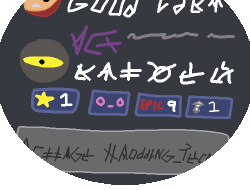
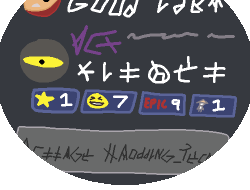
1.63 changes

Changed region(s): [[0.28, 0.2895, 0.952, 0.6316]]

diff --git a/src/main/java/theFishing/cards/QuestTimeTheFishOPedia.java b/src/main/java/theFishing/cards/QuestTimeTheFishOPedia.java
@@ -1,24 +1,15 @@
 package theFishing.cards;
 
-import com.evacipated.cardcrawl.mod.stslib.actions.common.SelectCardsCenteredAction;
-import com.megacrit.cardcrawl.actions.common.MakeTempCardInHandAction;
-import com.megacrit.cardcrawl.cards.AbstractCard;
 import com.megacrit.cardcrawl.characters.AbstractPlayer;
-import com.megacrit.cardcrawl.dungeons.AbstractDungeon;
-import com.megacrit.cardcrawl.helpers.CardLibrary;
 import com.megacrit.cardcrawl.monsters.AbstractMonster;
 import theFishing.actions.AcceptQuestAction;
 import theFishing.cards.fish.AbstractFishCard;
+import theFishing.quest.QuestHelper;
 import theFishing.quest.quests.TheFishOPedia;
-import theFishing.relics.MaelstromAnkh;
-
-import java.util.ArrayList;
-import java.util.HashMap;
-import java.util.Map;
 
 import static theFishing.FishingMod.makeID;
 import static theFishing.util.Wiz.atb;
-import static theFishing.util.Wiz.att;
+import static theFishing.util.Wiz.topDeck;
 
 public class QuestTimeTheFishOPedia extends AbstractFishingCard {
     public final static String ID = makeID("QuestTimeTheFishOPedia");
@@ -26,42 +17,19 @@ public class QuestTimeTheFishOPedia extends AbstractFishingCard {
 
     public QuestTimeTheFishOPedia() {
         super(ID, 1, CardType.SKILL, CardRarity.UNCOMMON, CardTarget.SELF);
-        baseMagicNumber = magicNumber = 2;
+        baseMagicNumber = magicNumber = 1;
     }
 
     public void use(AbstractPlayer p, AbstractMonster m) {
-        AbstractFishCard.setupLists();
-        HashMap<String, Integer> dupeList = new HashMap<>();
-        if (AbstractDungeon.player.hasRelic(MaelstromAnkh.ID)) {
-            for (Map.Entry<String, Integer> e : AbstractFishCard.maelstromFishList.entrySet()) {
-                dupeList.put(e.getKey(), e.getValue());
-            }
-        } else {
-            for (Map.Entry<String, Integer> e : AbstractFishCard.weightedFishList.entrySet()) {
-                dupeList.put(e.getKey(), e.getValue());
-            }
-        }
-        ArrayList<AbstractCard> possCards = new ArrayList<>();
         for (int i = 0; i < magicNumber; i++) {
-            int fishRoll = AbstractDungeon.cardRandomRng.random(1,
-                    dupeList.keySet().stream()
-                            .mapToInt(f -> dupeList.get(f))
-                            .sum()
-            );
-
-            for (String fishy : dupeList.keySet()) {
-                fishRoll -= dupeList.get(fishy);
-                if (fishRoll <= 0) {
-                    possCards.add(CardLibrary.getCard(fishy).makeCopy());
-                    dupeList.remove(fishy);
-                    break;
-                }
-            }
+            topDeck(AbstractFishCard.returnRandomFish());
         }
-        atb(new SelectCardsCenteredAction(possCards, 1, cardStrings.EXTENDED_DESCRIPTION[0], (cards) -> {
-            att(new MakeTempCardInHandAction(cards.get(0)));
-        }));
         atb(new AcceptQuestAction(new TheFishOPedia()));
+    }
+
+    @Override
+    public void triggerOnGlowCheck() {
+        glowColor = QuestHelper.hasQuest(TheFishOPedia.ID) ? QuestHelper.QUEST_DUPE_BORDER_GLOW_COLOR : BLUE_BORDER_GLOW_COLOR;
     }
 
     public void upp() {

diff --git a/src/main/java/theFishing/actions/DeckToTopOfDeckAction.java b/src/main/java/theFishing/actions/DeckToTopOfDeckAction.java
@@ -1,0 +1,59 @@
+package theFishing.actions;
+
+import com.megacrit.cardcrawl.actions.AbstractGameAction;
+import com.megacrit.cardcrawl.cards.AbstractCard;
+import com.megacrit.cardcrawl.cards.CardGroup;
+import com.megacrit.cardcrawl.core.AbstractCreature;
+import com.megacrit.cardcrawl.core.CardCrawlGame;
+import com.megacrit.cardcrawl.core.Settings;
+import com.megacrit.cardcrawl.dungeons.AbstractDungeon;
+import com.megacrit.cardcrawl.localization.UIStrings;
+
+public class DeckToTopOfDeckAction extends AbstractGameAction {
+    private static final UIStrings uiStrings = CardCrawlGame.languagePack.getUIString("DiscardPileToTopOfDeckAction");
+    public static final String[] TEXT = uiStrings.TEXT;
+
+    public DeckToTopOfDeckAction(AbstractCreature source) {
+        this.setValues(null, source, this.amount);
+        this.actionType = ActionType.CARD_MANIPULATION;
+        this.duration = Settings.ACTION_DUR_FASTER;
+    }
+
+    public void update() {
+        CardGroup tmp = new CardGroup(CardGroup.CardGroupType.UNSPECIFIED);
+        for (AbstractCard c : AbstractDungeon.player.drawPile.group) {
+            tmp.addToRandomSpot(c);
+        }
+        if (this.duration == Settings.ACTION_DUR_FASTER) {
+            if (tmp.isEmpty()) {
+                this.isDone = true;
+                return;
+            }
+
+            if (tmp.size() == 1) {
+                AbstractCard tar = tmp.getTopCard();
+                tmp.removeCard(tar);
+                tmp.moveToDeck(tar, false);
+            }
+
+            if (tmp.group.size() > this.amount) {
+
+                AbstractDungeon.gridSelectScreen.open(tmp, 1, TEXT[0], false, false, false, false);
+                this.tickDuration();
+                return;
+            }
+        }
+
+        if (!AbstractDungeon.gridSelectScreen.selectedCards.isEmpty()) {
+            for (AbstractCard c : AbstractDungeon.gridSelectScreen.selectedCards) {
+                tmp.removeCard(c);
+                AbstractDungeon.player.hand.moveToDeck(c, false);
+            }
+
+            AbstractDungeon.gridSelectScreen.selectedCards.clear();
+            AbstractDungeon.player.hand.refreshHandLayout();
+        }
+
+        this.tickDuration();
+    }
+}

diff --git a/src/main/java/theFishing/cards/SetSail.java b/src/main/java/theFishing/cards/SetSail.java
@@ -1,16 +1,10 @@
 package theFishing.cards;
 
-import basemod.BaseMod;
-import basemod.helpers.TooltipInfo;
 import com.megacrit.cardcrawl.characters.AbstractPlayer;
 import com.megacrit.cardcrawl.monsters.AbstractMonster;
 import com.megacrit.cardcrawl.powers.LoseStrengthPower;
 import com.megacrit.cardcrawl.powers.StrengthPower;
-import theFishing.actions.SetSailAction;
-import theFishing.patch.foil.FoilTooltips1;
-
-import java.util.Collections;
-import java.util.List;
+import theFishing.actions.DeckToTopOfDeckAction;
 
 import static theFishing.FishingMod.makeID;
 import static theFishing.util.Wiz.applyToSelf;
@@ -26,14 +20,9 @@ public class SetSail extends AbstractFishingCard {
     }
 
     public void use(AbstractPlayer p, AbstractMonster m) {
-        atb(new SetSailAction(CardType.ATTACK));
+        atb(new DeckToTopOfDeckAction(p));
         applyToSelf(new StrengthPower(p, magicNumber));
         applyToSelf(new LoseStrengthPower(p, magicNumber));
-    }
-
-    @Override
-    public List<TooltipInfo> getCustomTooltips() {
-        return Collections.singletonList(new TooltipInfo(BaseMod.getKeywordTitle(FoilTooltips1.UI_STRINGS.TEXT[2]), BaseMod.getKeywordDescription(FoilTooltips1.UI_STRINGS.TEXT[2])));
     }
 
     public void upp() {

diff --git a/src/main/java/theFishing/cards/Cheat.java b/src/main/java/theFishing/cards/Cheat.java
@@ -2,7 +2,6 @@ package theFishing.cards;
 
 import com.megacrit.cardcrawl.actions.AbstractGameAction;
 import com.megacrit.cardcrawl.actions.common.RemoveAllBlockAction;
-import com.megacrit.cardcrawl.cards.AbstractCard;
 import com.megacrit.cardcrawl.characters.AbstractPlayer;
 import com.megacrit.cardcrawl.monsters.AbstractMonster;
 
@@ -16,7 +15,7 @@ public class Cheat extends AbstractFishingCard {
 
     public Cheat() {
         super(ID, 1, CardType.ATTACK, CardRarity.SPECIAL, CardTarget.ENEMY, CardColor.COLORLESS);
-        baseDamage = 9;
+        baseDamage = 8;
         cardsToPreview = new Steal();
         exhaust = true;
     }
@@ -26,16 +25,10 @@ public class Cheat extends AbstractFishingCard {
             atb(new RemoveAllBlockAction(m, p));
         }
         dmg(m, AbstractGameAction.AttackEffect.SLASH_HORIZONTAL);
-        AbstractCard q = new Steal();
-        if (upgraded) q.upgrade();
-        makeInHand(q);
+        makeInHand(new Steal());
     }
 
     public void upp() {
-        upgradeDamage(2);
-        AbstractCard q = new Steal();
-        q.upgrade();
-        cardsToPreview = q;
-        uDesc();
+        upgradeDamage(3);
     }
 }

diff --git a/src/main/java/theFishing/cards/Lie.java b/src/main/java/theFishing/cards/Lie.java
@@ -21,7 +21,7 @@ public class Lie extends AbstractFishingCard {
 
     public Lie() {
         super(ID, 1, CardType.SKILL, CardRarity.UNCOMMON, CardTarget.ALL_ENEMY);
-        baseMagicNumber = magicNumber = 3;
+        baseMagicNumber = magicNumber = 4;
         MultiCardPreview.add(this, new Cheat(), new Steal());
         exhaust = true;
     }
@@ -37,19 +37,10 @@ public class Lie extends AbstractFishingCard {
             }
         });
 
-        AbstractCard q = new Cheat();
-        if (upgraded) q.upgrade();
-        makeInHand(q);
+        makeInHand(new Cheat());
     }
 
     public void upp() {
         upgradeMagicNumber(2);
-        MultiCardPreview.clear(this);
-        AbstractCard q = new Cheat();
-        q.upgrade();
-        AbstractCard q2 = new Steal();
-        q2.upgrade();
-        MultiCardPreview.add(this, q, q2);
-        uDesc();
     }
 }

diff --git a/src/main/java/theFishing/cards/QuestTimeTheStorm.java b/src/main/java/theFishing/cards/QuestTimeTheStorm.java
@@ -4,6 +4,8 @@ import com.megacrit.cardcrawl.characters.AbstractPlayer;
 import com.megacrit.cardcrawl.monsters.AbstractMonster;
 import com.megacrit.cardcrawl.powers.EnergizedPower;
 import theFishing.actions.AcceptQuestAction;
+import theFishing.quest.QuestHelper;
+import theFishing.quest.quests.TheGemSearch;
 import theFishing.quest.quests.TheStorm;
 
 import static theFishing.FishingMod.makeID;
@@ -22,6 +24,11 @@ public class QuestTimeTheStorm extends AbstractFishingCard {
     public void use(AbstractPlayer p, AbstractMonster m) {
         applyToSelf(new EnergizedPower(p, magicNumber));
         atb(new AcceptQuestAction(new TheStorm()));
+    }
+
+    @Override
+    public void triggerOnGlowCheck() {
+        glowColor = QuestHelper.hasQuest(TheStorm.ID) ? QuestHelper.QUEST_DUPE_BORDER_GLOW_COLOR : BLUE_BORDER_GLOW_COLOR;
     }
 
     public void upp() {

diff --git a/src/main/java/theFishing/cards/QuestTimeTheLuckyPack.java b/src/main/java/theFishing/cards/QuestTimeTheLuckyPack.java
@@ -3,6 +3,8 @@ package theFishing.cards;
 import com.megacrit.cardcrawl.characters.AbstractPlayer;
 import com.megacrit.cardcrawl.monsters.AbstractMonster;
 import theFishing.actions.AcceptQuestAction;
+import theFishing.quest.QuestHelper;
+import theFishing.quest.quests.TheGemSearch;
 import theFishing.quest.quests.TheLuckyPack;
 
 import static com.megacrit.cardcrawl.actions.AbstractGameAction.AttackEffect.FIRE;
@@ -21,6 +23,11 @@ public class QuestTimeTheLuckyPack extends AbstractFishingCard {
     public void use(AbstractPlayer p, AbstractMonster m) {
         dmg(m, FIRE);
         atb(new AcceptQuestAction(new TheLuckyPack()));
+    }
+
+    @Override
+    public void triggerOnGlowCheck() {
+        glowColor = QuestHelper.hasQuest(TheLuckyPack.ID) ? QuestHelper.QUEST_DUPE_BORDER_GLOW_COLOR : BLUE_BORDER_GLOW_COLOR;
     }
 
     public void upp() {

diff --git a/src/main/java/theFishing/cards/QuestTimeTheGemSearch.java b/src/main/java/theFishing/cards/QuestTimeTheGemSearch.java
@@ -3,6 +3,8 @@ package theFishing.cards;
 import com.megacrit.cardcrawl.characters.AbstractPlayer;
 import com.megacrit.cardcrawl.monsters.AbstractMonster;
 import theFishing.actions.AcceptQuestAction;
+import theFishing.quest.QuestHelper;
+import theFishing.quest.quests.TheFishOPedia;
 import theFishing.quest.quests.TheGemSearch;
 
 import static theFishing.FishingMod.makeID;
@@ -19,6 +21,11 @@ public class QuestTimeTheGemSearch extends AbstractFishingCard {
 
     public void use(AbstractPlayer p, AbstractMonster m) {
         atb(new AcceptQuestAction(new TheGemSearch()));
+    }
+
+    @Override
+    public void triggerOnGlowCheck() {
+        glowColor = QuestHelper.hasQuest(TheGemSearch.ID) ? QuestHelper.QUEST_DUPE_BORDER_GLOW_COLOR : BLUE_BORDER_GLOW_COLOR;
     }
 
     public void upp() {

diff --git a/src/main/java/theFishing/cards/QuestTimeThePrismaticPortal.java b/src/main/java/theFishing/cards/QuestTimeThePrismaticPortal.java
@@ -4,6 +4,8 @@ import basemod.patches.com.megacrit.cardcrawl.cards.AbstractCard.MultiCardPrevie
 import com.megacrit.cardcrawl.characters.AbstractPlayer;
 import com.megacrit.cardcrawl.monsters.AbstractMonster;
 import theFishing.actions.AcceptQuestAction;
+import theFishing.quest.QuestHelper;
+import theFishing.quest.quests.TheGemSearch;
 import theFishing.quest.quests.ThePrismaticPortal;
 
 import static theFishing.FishingMod.makeID;
@@ -24,6 +26,11 @@ public class QuestTimeThePrismaticPortal extends AbstractFishingCard {
 
     public void upp() {
         upgradeBaseCost(0);
+    }
+
+    @Override
+    public void triggerOnGlowCheck() {
+        glowColor = QuestHelper.hasQuest(ThePrismaticPortal.ID) ? QuestHelper.QUEST_DUPE_BORDER_GLOW_COLOR : BLUE_BORDER_GLOW_COLOR;
     }
 
     @Override

diff --git a/src/main/java/theFishing/quest/QuestHelper.java b/src/main/java/theFishing/quest/QuestHelper.java
@@ -24,6 +24,8 @@ public class QuestHelper {
     public static final float POSITION_X = 10F * Settings.scale;
     public static final float POSITION_Y = 300F * Settings.scale;
 
+    public static final Color QUEST_DUPE_BORDER_GLOW_COLOR = new Color(0.2F, 1F, 0.6F, 0.25F);
+
     private static final UIStrings uiStrings = CardCrawlGame.languagePack.getUIString(makeID("QuestLog"));
 
     static {
@@ -124,5 +126,9 @@ public class QuestHelper {
         for (AbstractQuest q : quests) {
             q.atEndOfTurn();
         }
+    }
+
+    public static boolean hasQuest(String ID) {
+        return quests.stream().anyMatch(q -> q.questID.equals(ID));
     }
 }

diff --git a/src/main/java/theFishing/quest/quests/TheFishOPedia.java b/src/main/java/theFishing/quest/quests/TheFishOPedia.java
@@ -56,7 +56,7 @@ public class TheFishOPedia extends AbstractQuest {
     public void onPlayCard(AbstractCard card) {
         if (card instanceof AbstractFishCard && !alreadyPlayed.stream().anyMatch(q -> q.getKey().equals(card.cardID))) {
             increment();
-            alreadyPlayed.add(new Pair(card.cardID, card.name));
+            alreadyPlayed.add(new Pair(card.cardID, card.name.replaceAll("\\+", "")));
         }
     }
 

diff --git a/src/main/java/theFishing/cards/QuestTimeTheHarpoon.java b/src/main/java/theFishing/cards/QuestTimeTheHarpoon.java
@@ -8,6 +8,8 @@ import com.megacrit.cardcrawl.monsters.AbstractMonster;
 import com.megacrit.cardcrawl.vfx.combat.VerticalImpactEffect;
 import theFishing.actions.AcceptQuestAction;
 import theFishing.cards.fish.maelstrom.TheWhale;
+import theFishing.quest.QuestHelper;
+import theFishing.quest.quests.TheGemSearch;
 import theFishing.quest.quests.TheHarpoon;
 
 import static theFishing.FishingMod.makeID;
